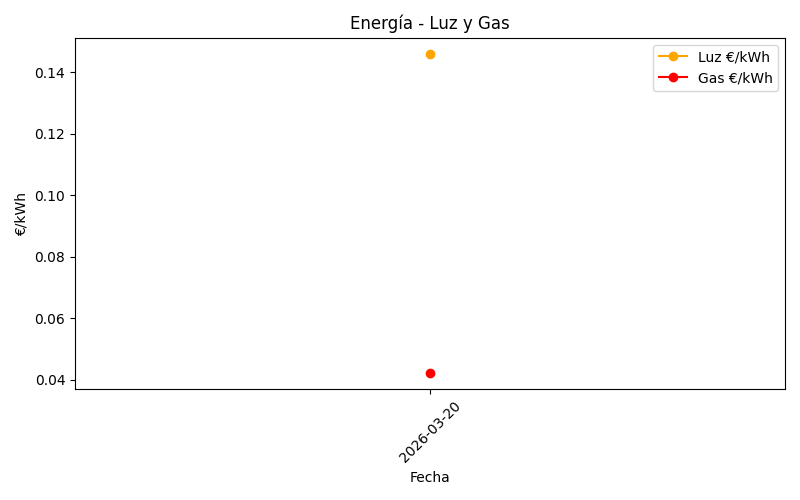
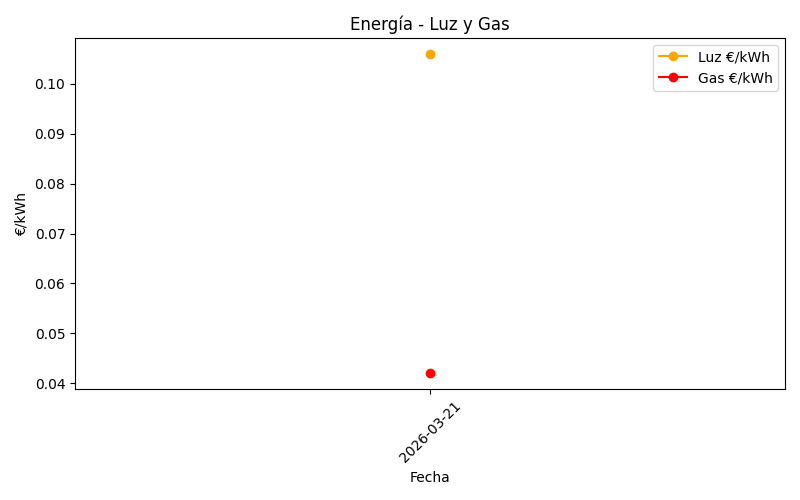
Actualizar gasolina + luz + gas (2026-03-21 07:11)

diff --git a/docs/js/script.js b/docs/js/script.js
@@ -1,10 +1,10 @@
 
-document.getElementById('barata').textContent = "💰 REPSOL - CR A-4, 32: 1.835 € ¡Mejor precio!";
-document.getElementById('luz').textContent = "0.146 €/kWh (🟡 Media)";
+document.getElementById('barata').textContent = "💰 REPSOL - CR A-4, 32: 1.855 € ¡Mejor precio!";
+document.getElementById('luz').textContent = "0.106 €/kWh (🟡 Media)";
 document.getElementById('gas').textContent = "0.042 €/kWh";
 
 const ts = Date.now();
-document.getElementById('csvlink').href = "precios_gasolina_2026-03-20.csv?v=" + ts;
-document.getElementById('csvlink').download = "precios_gasolina_2026-03-20.csv";
+document.getElementById('csvlink').href = "precios_gasolina_2026-03-21.csv?v=" + ts;
+document.getElementById('csvlink').download = "precios_gasolina_2026-03-21.csv";
 document.getElementById('img_gasolina').src = "historial_gasolina.png?v=" + ts;
 document.getElementById('img_energia').src = "historial_energia.png?v=" + ts;
